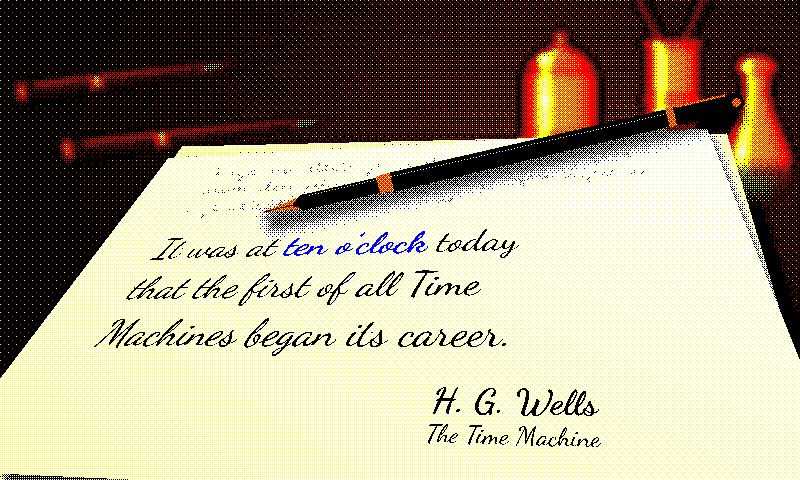
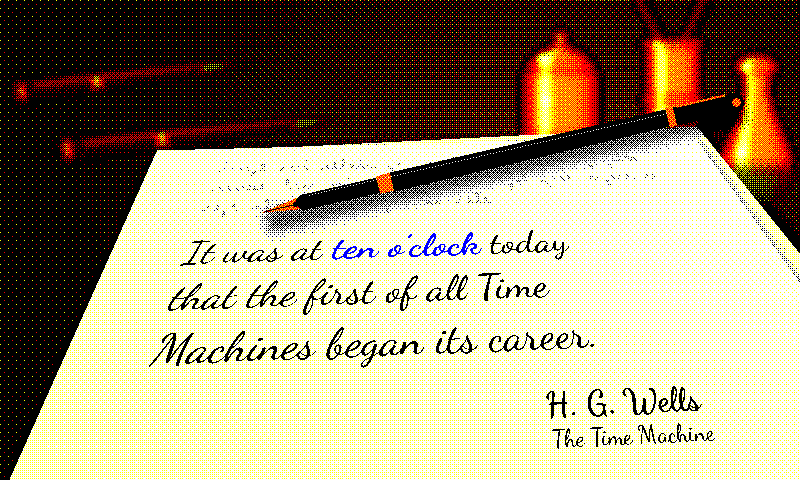
escritoire: make the sheet a real perspective so the writing sits on the paper (#389)
* escritoire: make the sheet a real perspective so the writing sits on the paper

The sheet's quad was drawn by eye: its far edge rose to the right while its
side edges leaned as if the sheet were turned the other way. The implied
horizon tilted about ten degrees, and the writing, which follows the
homography faithfully, fanned between the two cues and read as climbing
off the paper.

The new quad (and the page under it) is a flat sheet turned 2.5 degrees on
the desk, projected through a level camera, and a test fences the level
horizon so a hand-nudged corner can't reintroduce the twist.

Claude-Session: https://claude.ai/code/session_011ngTmVDbnUWqPq6LRQRtAx

* Note the escritoire perspective fix in the changelog

Claude-Session: https://claude.ai/code/session_011ngTmVDbnUWqPq6LRQRtAx

---------

diff --git a/idle_hours/render_quote/themes/escritoire.py b/idle_hours/render_quote/themes/escritoire.py
@@ -60,7 +60,11 @@ _ESCRITOIRE_SS = 2                     # supersample for the sheet masks
 _ESCRITOIRE_SHEET = (900, 560)         # the upright sheet, in sheet units
 # The sheet's corners on the canvas (TL, TR, BR, BL). The near corners run off
 # the panel, as a sheet does when it is close enough to write on.
-_ESCRITOIRE_QUAD = ((168, 158), (706, 128), (860, 512), (-70, 470))
+# They are a flat sheet turned 2.5 degrees on the desk, projected through a
+# level camera, so the vanishing points of the rows and the sides share one
+# horizontal horizon; a freehand quad fans the writing off the paper's edges.
+# The page under it is the same sheet turned 2.2 degrees further.
+_ESCRITOIRE_QUAD = ((157, 150), (693, 136), (943, 481), (-12, 527))
 _ESCRITOIRE_LAMP = (560, 150)          # the light pool's centre on the desk
 _ESCRITOIRE_LEFT = 100                 # the writing's left margin, sheet units
 _ESCRITOIRE_MEASURE = 600              # the quote's measure, sheet units
@@ -83,7 +87,7 @@ _ESCRITOIRE_PEN = ((262.0, 212.0), (738.0, 102.0), 10.0)
 # A second sheet under the letter, turned a few degrees further, so a wedge of
 # it shows along the far edge and past the top-right corner: a page of the
 # same letter, and the cheapest cue that the sheet lies on a real desk.
-_ESCRITOIRE_UNDER_QUAD = ((182, 146), (726, 133), (842, 520), (-60, 482))
+_ESCRITOIRE_UNDER_QUAD = ((166, 153), (696, 126), (959, 451), (27, 534))
 # The brass beyond the sheet, each a turned piece given as a lathe profile:
 # its axis x and (y, half-width) knots down the silhouette, joined linearly.
 # A knot pair a few pixels apart is a step in the turning, where a moulding

diff --git a/tests/test_render_quote_themes.py b/tests/test_render_quote_themes.py
@@ -7292,6 +7292,28 @@ class TestEscritoireFrame:
         (tlx, _), (trx, _), (brx, _), (blx, _) = rq._ESCRITOIRE_QUAD
         assert 0.5 < (trx - tlx) / (brx - blx) < 0.7
 
+    @staticmethod
+    def _vanishing_point(p0, p1, q0, q1):
+        (x1, y1), (x2, y2), (x3, y3), (x4, y4) = p0, p1, q0, q1
+        den = (x1 - x2) * (y3 - y4) - (y1 - y2) * (x3 - x4)
+        a, b = x1 * y2 - y1 * x2, x3 * y4 - y3 * x4
+        return ((a * (x3 - x4) - (x1 - x2) * b) / den, (a * (y3 - y4) - (y1 - y2) * b) / den)
+
+    def test_sheet_is_a_real_perspective_with_a_level_horizon(self):
+        # A sheet lying flat on the desk, seen by a level eye: the vanishing
+        # points of its rows and of its sides share one horizontal horizon.
+        # A quad drawn freehand can rise along its far edge while its sides
+        # lean as if it were turned the other way; the writing then follows
+        # neither and reads as climbing off the paper.
+        tl, tr, br, bl = rq._ESCRITOIRE_QUAD
+        rows = self._vanishing_point(tl, tr, bl, br)
+        sides = self._vanishing_point(tl, bl, tr, br)
+        assert sides[1] < 0, "the horizon sits above the panel"
+        tilt = math.degrees(math.atan2(rows[1] - sides[1], rows[0] - sides[0]))
+        assert abs(tilt) < 0.25, (rows, sides)
+        # Turned so the right side lies further away: every row rises to the right.
+        assert rows[0] > 800 and tr[1] < tl[1] and br[1] < bl[1]
+
     def test_quote_is_black_and_the_phrase_blue_on_the_paper(self):
         image = self._render()
         paper = rq._escritoire_sheet_mask(image.size)

diff --git a/docs/themes.md b/docs/themes.md
@@ -1268,7 +1268,7 @@ Imports `pick_quote` in-process (`pick_quote_module.select_quote`) and lays out 
     **Figure 2 is the galaxy, and the clock:** a seeded two-armed spiral of white and yellow stars in a boxed chart with twelve blue sector lines. **The hour's sector**, counted clockwise from the top like a clock face, is outlined in yellow with the Earth as a ringed blue dot inside it and a leader to YOU ARE HERE (and, beneath, MOSTLY HARMLESS). Pinned across the minutes; the matched phrase carries the minute. Composed at 800×480 and NEAREST-downsampled otherwise.
   - `escritoire` (dark mahogany desk / cream sheet / black Dancing Script body / blue matched phrase / out-of-focus brass and a fountain pen — **a handwritten letter on a writing desk, seen from the writer's chair**). A custom-render frame (`render_escritoire_frame`).
 
-    **The sheet in perspective.** The sheet is a trapezoid whose far edge is about three fifths the width of its near edge, rolled a few degrees so the right side sits higher, with its near corners running off the panel.
+    **The sheet in perspective.** The sheet is a trapezoid whose far edge is about three fifths the width of its near edge, rolled a few degrees so the right side sits higher, with its near corners running off the panel. The quad is the image of a flat sheet turned 2.5° on the desk under a level camera, not a freehand trapezoid: the vanishing point of its rows and that of its sides share one horizontal horizon (`test_sheet_is_a_real_perspective_with_a_level_horizon`). The first quad was drawn by eye, with a far edge rising to the right and side edges leaning as if the sheet were turned the other way; its implied horizon tilted about ten degrees, and the writing, which follows the homography faithfully, fanned between the two and read as climbing off the paper. Moving a corner means re-solving the camera, not nudging the point.
 
     **Only the near half of the page is legible, on purpose:** at the far edge a glyph is 60% of its near-edge size, which at the panel's resolution is noise. So the foreshortened band carries the letter's *earlier* lines as faint asemic script (`_codex_script`, stippled at ~40% black and seeded from `_row_digest`, so a different quote is a different letter) and the quote is centred in the near band (`_ESCRITOIRE_BAND`) where the perspective costs it least. The faint band sells the depth; the quote never pays for it.
 

diff --git a/CHANGELOG.md b/CHANGELOG.md
@@ -9,6 +9,10 @@ canonical `vMAJOR.MINOR.PATCH` Git tags; the package version omits the leading
 Add release notes here as changes merge. The release preparation tool moves
 these entries under the new dated version heading.
 
+- `escritoire`'s letter now sits on its paper. The sheet was drawn with a
+  far edge rising to the right and sides leaning as if it were turned the
+  other way, so the writing fanned between them and seemed to climb off the
+  page. It is now a flat sheet turned slightly on the desk, seen straight on.
 - Retired twelve themes: `swiss`, `scholar`, `herbarium`, `blueprint`,
   `illuminated`, `risograph`, `grimoire`, `glacier`, `mucha`, `vinyl`,
   `grimdark` and `intaglio`. They are gone from the rotation, `--theme`,
